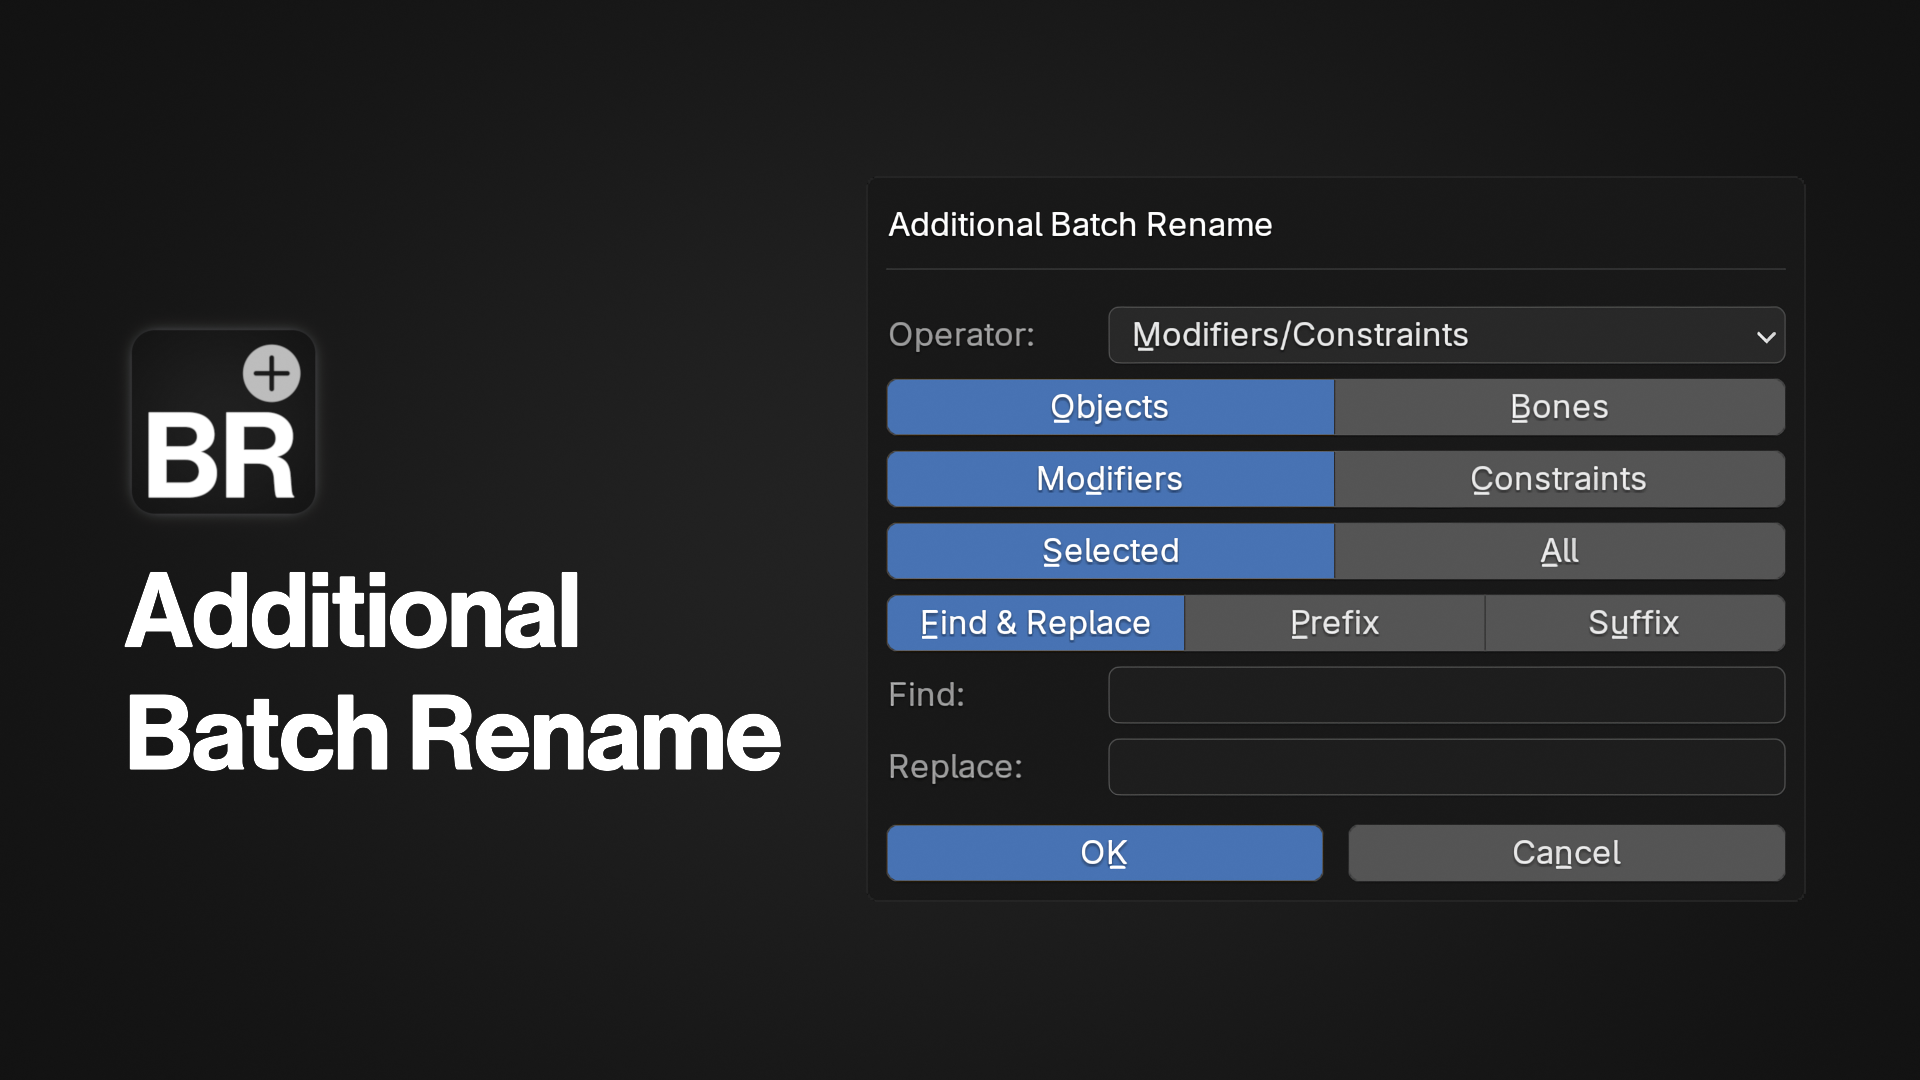
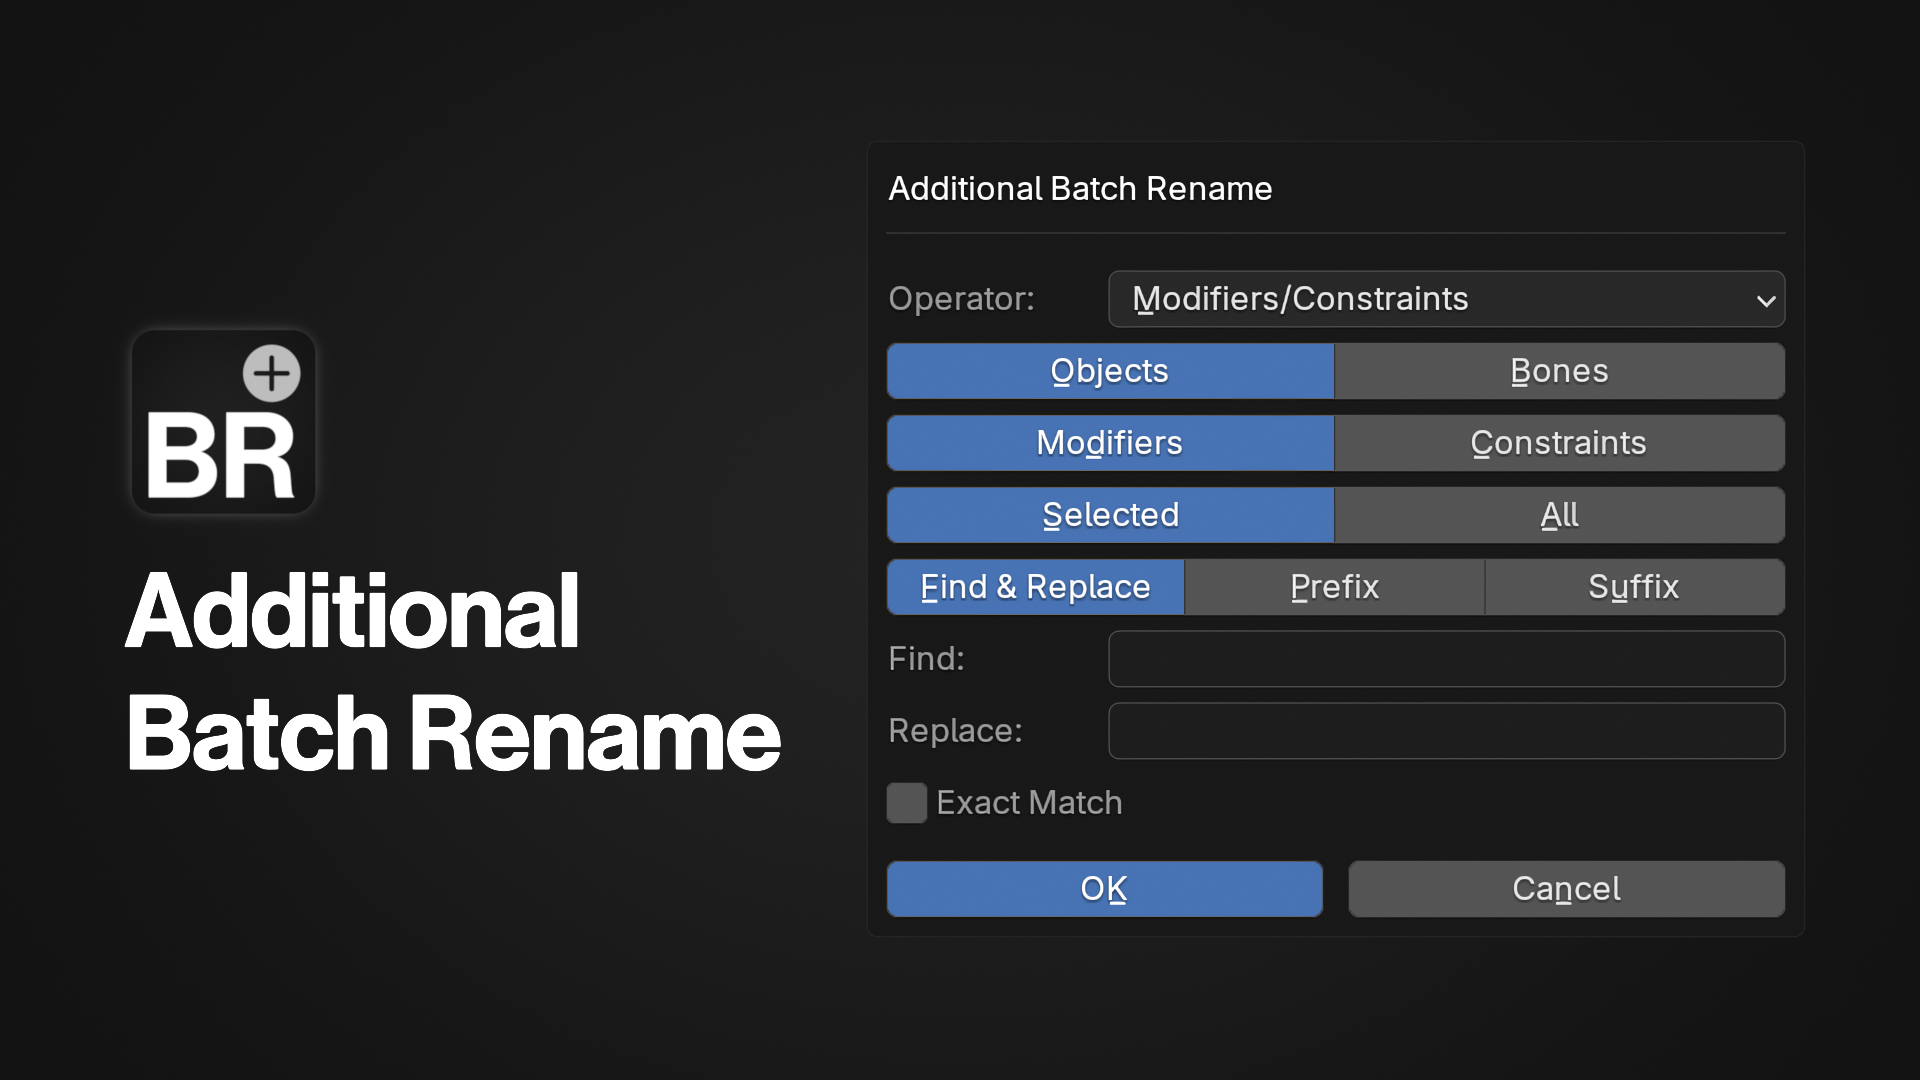
v1.1.1 Update

Changed region(s): [[0.4375, 0.1528, 0.9375, 0.8556], [0.5938, 0.6417, 0.9375, 0.6722]]

diff --git a/add_batchrename.py b/add_batchrename.py
@@ -1,5 +1,6 @@
 import bpy
 
+
 #━━━━━━━━━━━━━━
 #     Main     
 #━━━━━━━━━━━━━━
@@ -14,7 +15,7 @@ class ADD_BatchRename(bpy.types.Operator):
     #     Properties     
     # -------------------
 
-    # Enum property to select the operator type
+    # Enum property to select the type of batch renaming to perform (Modifier/Constraints or Vertex Groups)
     operator_type: bpy.props.EnumProperty(
         name="Operator",
         items=[
@@ -98,6 +99,13 @@ class ADD_BatchRename(bpy.types.Operator):
         description="Suffix to add to names"
     )
 
+    # Bool property for exact matching search
+    exact_match: bpy.props.BoolProperty(
+        name='Exact Match',
+        default=False,
+        description="If enabled, find only string with exact matches"
+    )
+
     # ------------------
     #     Interface     
     # ------------------
@@ -116,16 +124,18 @@ class ADD_BatchRename(bpy.types.Operator):
 
             layout.prop(self, "target_type", expand=True)
 
-            # If target_type is BONES, hide data_type and enforce CONSTRAINTS
+             # If BONES are targeted, force data type to CONSTRAINTS and display a message
             if self.target_type == 'BONES':
                 self.data_type = 'CONSTRAINTS'
                 layout.label(text="Data type is set to constraints for bones.", icon= 'INFO_LARGE')
             else:
+
+                # Display data type (Modifiers/Constraints) for objects
                 layout.prop(self, "data_type", expand=True)
 
             layout.prop(self, "scope_type", expand=True)
 
-            # If target_type is BONES and scope_type is ALL, notify that bones only rename all on active armature
+            # If BONES are targeted and scope is ALL, show a warning about armature
             if self.target_type == 'BONES' and self.scope_type == 'ALL':
                 layout.label(text="Only rename all bones on active armature.", icon= 'WARNING_LARGE')
 
@@ -134,6 +144,7 @@ class ADD_BatchRename(bpy.types.Operator):
             if self.operation_type == 'FIND_REPLACE':
                 layout.prop(self, "find_str")
                 layout.prop(self, "replace_str")
+                layout.prop(self, "exact_match")
             elif self.operation_type == 'PREFIX':
                 layout.prop(self, "prefix_str")
             elif self.operation_type == 'SUFFIX':
@@ -149,6 +160,7 @@ class ADD_BatchRename(bpy.types.Operator):
             if self.operation_type == 'FIND_REPLACE':
                 layout.prop(self, "find_str")
                 layout.prop(self, "replace_str")
+                layout.prop(self, "exact_match")
             elif self.operation_type == 'PREFIX':
                 layout.prop(self, "prefix_str")
             elif self.operation_type == 'SUFFIX':
@@ -160,50 +172,113 @@ class ADD_BatchRename(bpy.types.Operator):
 
     # Process modifiers for renaming and returns the number of modifiers renamed
     def process_modifiers(self, modifiers):
+
+        # Counter for successfully renamed modifiers
         renamed = 0
+
         for mod in modifiers:
             if self.operation_type == 'FIND_REPLACE':
-                if self.find_str in mod.name:
-                    mod.name = mod.name.replace(self.find_str, self.replace_str)
-                    renamed += 1
+                if self.exact_match:
+
+                    # Check for an exact match of the modifier's name
+                    if mod.name == self.find_str:
+                        mod.name = self.replace_str
+                        renamed += 1
+
+                else:
+
+                    # Check if the 'find_str' is a substring within the modifier's name
+                    if self.find_str in mod.name:
+                        mod.name = mod.name.replace(self.find_str, self.replace_str)
+                        renamed += 1
+
             elif self.operation_type == 'PREFIX':
+
+                # Add the specified prefix to the modifier's name
                 mod.name = f"{self.prefix_str}{mod.name}"
                 renamed += 1
+
             elif self.operation_type == 'SUFFIX':
+
+                # Add the specified suffix to the modifier's name
                 mod.name = f"{mod.name}{self.suffix_str}"
                 renamed += 1
+        
+        # Return the total count of renamed modifiers
         return renamed
 
     # Process constraints for renaming and returns the number of constraints renamed
     def process_constraints(self, constraints):
+
+        # Counter for successfully renamed constraints
         renamed = 0
+
         for con in constraints:
             if self.operation_type == 'FIND_REPLACE':
-                if self.find_str in con.name:
-                    con.name = con.name.replace(self.find_str, self.replace_str)
-                    renamed += 1
+                if self.exact_match:
+
+                    # Check for an exact match of the constraint's name
+                    if con.name == self.find_str:
+                        con.name = self.replace_str
+                        renamed += 1
+
+                else:
+
+                    # Check if the 'find_str' is a substring within the constraint's name
+                    if self.find_str in con.name:
+                        con.name = con.name.replace(self.find_str, self.replace_str)
+                        renamed += 1
+
             elif self.operation_type == 'PREFIX':
+
+                # Add the specified prefix to the constraint's name
                 con.name = f"{self.prefix_str}{con.name}"
                 renamed += 1
+
             elif self.operation_type == 'SUFFIX':
+
+                # Add the specified suffix to the constraint's name
                 con.name = f"{con.name}{self.suffix_str}"
                 renamed += 1
+
+        # Return the total count of renamed constraints
         return renamed
 
     # Process vertex groups for renaming and returns the number of vertex groups renamed
     def process_vertex_groups(self, vertex_groups):
+
+        # Counter for successfully renamed vertex groups
         renamed = 0
+
         for vg in vertex_groups:
             if self.operation_type == 'FIND_REPLACE':
-                if self.find_str in vg.name:
-                    vg.name = vg.name.replace(self.find_str, self.replace_str)
-                    renamed += 1
+                if self.exact_match:
+
+                    # Check for an exact match of the vertex group's name
+                    if vg.name == self.find_str:
+                        vg.name = self.replace_str
+                        renamed += 1
+                
+                else:
+
+                    # Check if the 'find_str' is a substring within the vertex group's name
+                    if self.find_str in vg.name:
+                        vg.name = vg.name.replace(self.find_str, self.replace_str)
+                        renamed += 1
+
             elif self.operation_type == 'PREFIX':
+
+                # Add the specified prefix to the vertex group's name
                 vg.name = f"{self.prefix_str}{vg.name}"
                 renamed += 1
+
             elif self.operation_type == 'SUFFIX':
+
+                # Add the specified suffix to the vertex group's name
                 vg.name = f"{vg.name}{self.suffix_str}"
                 renamed += 1
+
+        # Return the total count of renamed vertex groups
         return renamed
 
     # ------------------
@@ -219,33 +294,49 @@ class ADD_BatchRename(bpy.types.Operator):
 
         # If operator_type is MODCON, do Modifiers and Constraints batch renaming
         if self.operator_type == 'MODCON':
+            
+            # List to store the actual objects or bones to process
+            items = []
 
             # Determine the items to process based on target_type and scope_type
             if self.target_type == 'OBJECTS':
                 if self.scope_type == 'SELECTED':
                     items = context.selected_objects
+
+                    # Stop if no objects are selected
                     if not items:
                         self.report({'INFO'}, "No object(s) selected.")
                         return {'CANCELLED'}
                 else:
+
+                    # Get all objects in the current Blender file
                     items = bpy.data.objects
+
             elif self.target_type == 'BONES':
                 if self.scope_type == 'SELECTED':
-                    items = []
+                    
+                    # Iterate through selected objects to find armatures and their selected bones
                     for obj in context.selected_objects:
                         if obj.type == 'ARMATURE':
                             pose_bones = obj.pose.bones
                             selected_bones = [pb for pb in pose_bones if pb.bone.select]
                             items.extend(selected_bones)
+                    
+                    # Stop if no bones are selected
                     if not items:
                         self.report({'INFO'}, "No bone(s) selected.")
                         return {'CANCELLED'}
                 else:
                     active_object = context.active_object
+
+                    # Get all bones from the active armature
                     if active_object and active_object.type == 'ARMATURE':
                         items = active_object.pose.bones
+
                     else:
-                        self.report({'INFO'}, "No armature selected.")
+
+                        # Stop if no armature is active
+                        self.report({'INFO'}, "No active armature.")
                         return {'CANCELLED'}
             
             # If target_type is BONES, enforce data_type to CONSTRAINTS
@@ -255,18 +346,36 @@ class ADD_BatchRename(bpy.types.Operator):
             # Process each item based on data_type
             for item in items:
                 if self.data_type == 'MODIFIERS':
+
+                    # Check if the item has a 'modifiers' collection
                     if hasattr(item, 'modifiers'):
+
+                        # Check if the item has a 'modifiers' collection
                         renamed_count += self.process_modifiers(item.modifiers)
+
                     else:
-                        failed_count += 1
-                else:
-                    if hasattr(item, 'constraints'):
-                        renamed_count += self.process_constraints(item.constraints)
-                    else:
-                        self.report({'WARNING'}, "Armature has no bones.")
+
+                        # Increment failed count if no modifiers found
                         failed_count += 1
 
-            # Display appropriate message based on the outcome
+                else:
+
+                    # Check if the item has a 'constraints' collection
+                    if hasattr(item, 'constraints'):
+
+                        # Process constraints
+                        renamed_count += self.process_constraints(item.constraints)
+
+                    else:
+                        
+                        # Specific warning for armatures with no bones (which would have no constraints)
+                        if self.target_type == 'BONES':
+                            self.report({'WARNING'}, "Armature has no bones or selected bones have no constraints.")
+
+                        # Increment failed count if no constraints found
+                        failed_count += 1
+
+            # Report the results of the Modifiers/Constraints renaming operation
             if renamed_count > 0:
                 self.report({'INFO'}, f"Renamed {renamed_count} {self.data_type.lower()}.")
             if failed_count > 0:
@@ -275,28 +384,44 @@ class ADD_BatchRename(bpy.types.Operator):
         
         # If operator_type is VERTGROUP, do Vertex Groups batch renaming
         elif self.operator_type == 'VERTGROUP':
+            
+            # List to store objects to process for vertex groups
+            objects = []
 
             # Determine the objects to process based on scope_type
             if self.scope_type == 'SELECTED':
+
+                # Get currently selected objects
                 objects = context.selected_objects
                 if not objects:
                     self.report({'INFO'}, "No object(s) selected.")
                     return {'CANCELLED'}
             else:
+
+                # Get all objects in the current Blender file
                 objects = bpy.data.objects
                 if not objects:
                     self.report({'INFO'}, "No objects in the scene.")
                     return {'CANCELLED'}
 
-            # Process each object
+            # Iterate through the determined objects and process their vertex groups
             for obj in objects:
+
+                # Only process objects that typically have vertex groups
                 if obj.type in ['MESH', 'CURVE', 'SURFACE', 'META', 'FONT', 'ARMATURE', 'LATTICE']:
+
+                    # Check if the object has vertex groups
                     if obj.vertex_groups:
+
+                        # Process vertex groups
                         renamed_count += self.process_vertex_groups(obj.vertex_groups)
+
                     else:
+
+                        # Increment failed count if no vertex groups found
                         failed_count += 1
 
-            # Display appropriate message based on the outcome
+            # Report the results of the Vertex Groups renaming operation
             if renamed_count > 0:
                 self.report({'INFO'}, f"Renamed {renamed_count} Vertex Group(s).")
             if failed_count > 0:
@@ -305,6 +430,7 @@ class ADD_BatchRename(bpy.types.Operator):
 
         return {'FINISHED'}
 
+
 #━━━━━━━━━━━━━━━━━━━━━━━━━━━━━━━
 #     Register & Unregister     
 #━━━━━━━━━━━━━━━━━━━━━━━━━━━━━━━
@@ -312,6 +438,7 @@ class ADD_BatchRename(bpy.types.Operator):
 # Function to draw the operator in the context menu
 def draw_context_menu(self, context):
     self.layout.operator_context = 'INVOKE_DEFAULT'
+    self.layout.separator()
     self.layout.operator(ADD_BatchRename.bl_idname, text="Additional Batch Rename")
 
 # Register the classes and append the context menu to Blender's UI
@@ -320,6 +447,7 @@ def register():
     
     bpy.types.VIEW3D_MT_object_context_menu.append(draw_context_menu)
     bpy.types.VIEW3D_MT_pose_context_menu.append(draw_context_menu)
+    bpy.types.VIEW3D_MT_edit_mesh_context_menu.append(draw_context_menu)
 
 # Unregister the classes and remove the context menu from Blender's UI
 def unregister():
@@ -327,6 +455,7 @@ def unregister():
     
     bpy.types.VIEW3D_MT_object_context_menu.remove(draw_context_menu)
     bpy.types.VIEW3D_MT_pose_context_menu.remove(draw_context_menu)
+    bpy.types.VIEW3D_MT_edit_mesh_context_menu.remove(draw_context_menu)
 
 if __name__ == "__main__":
     register()
